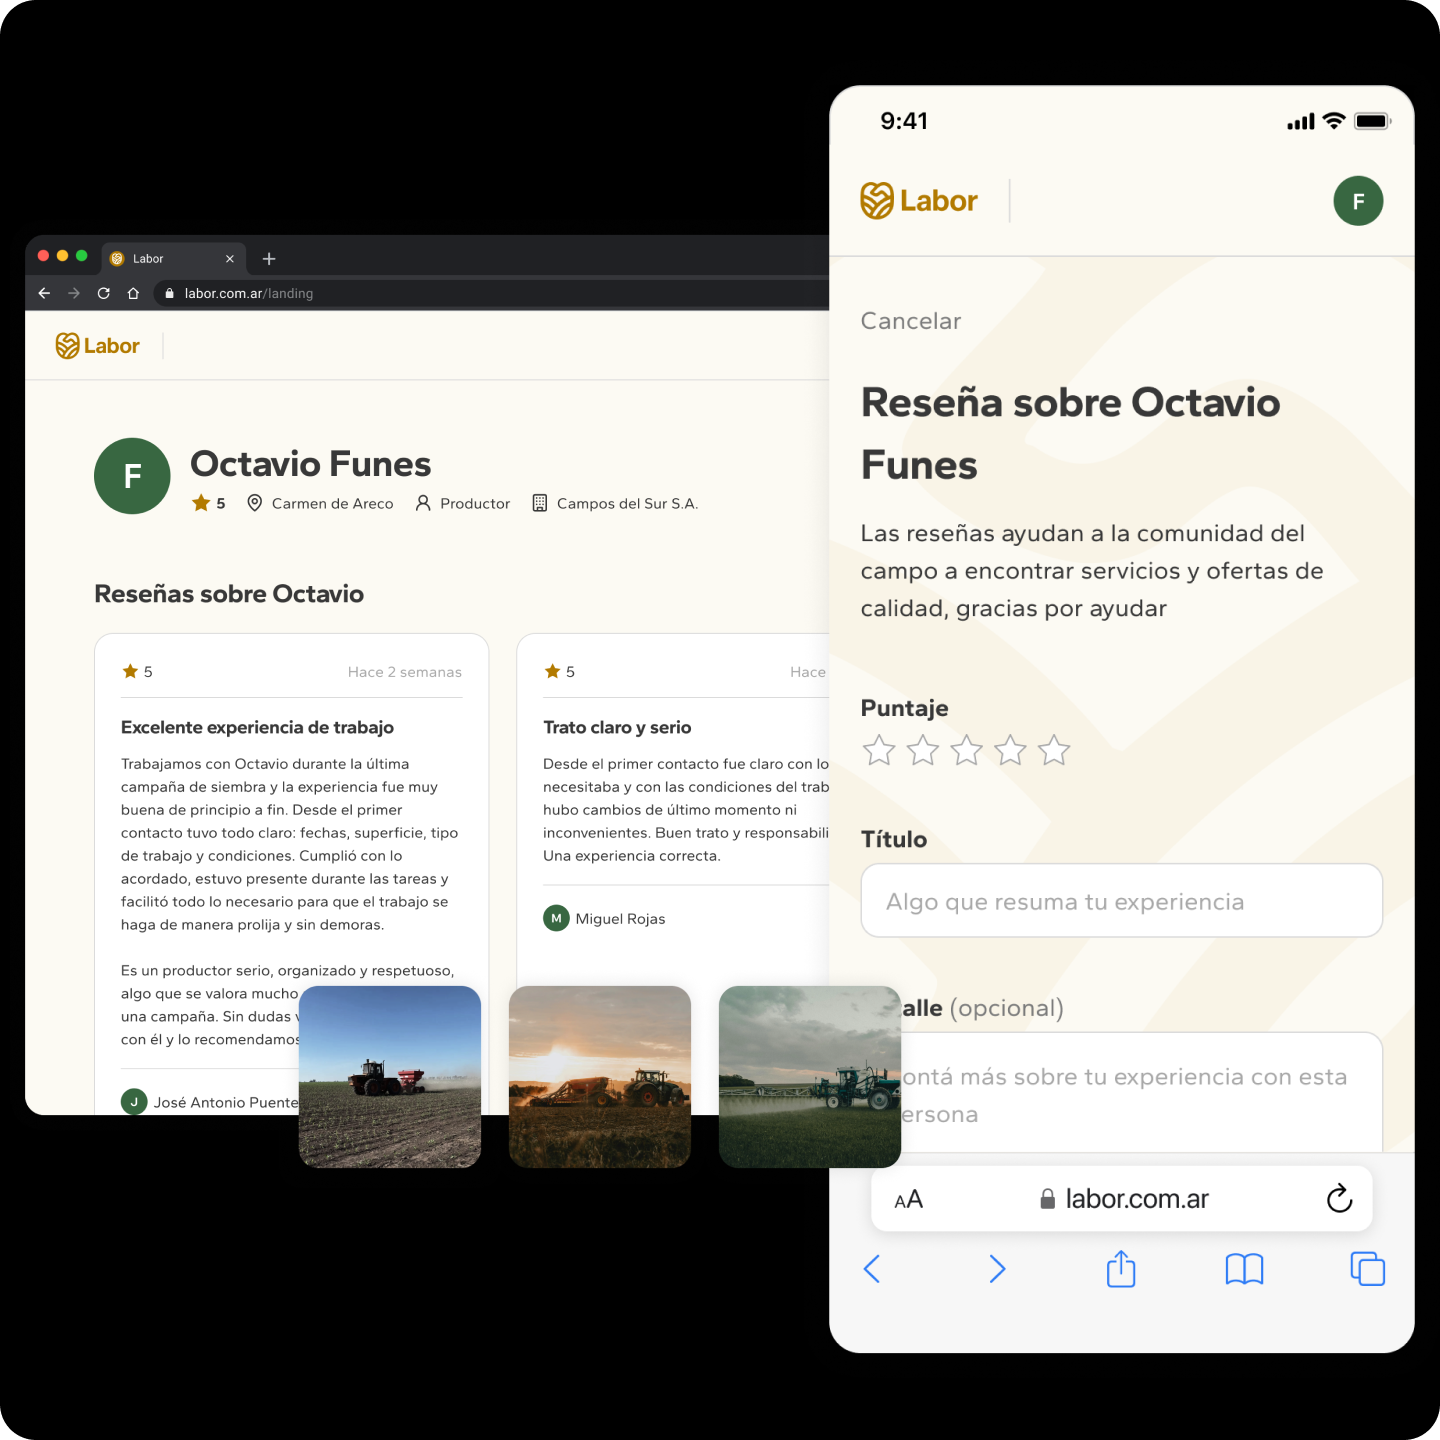
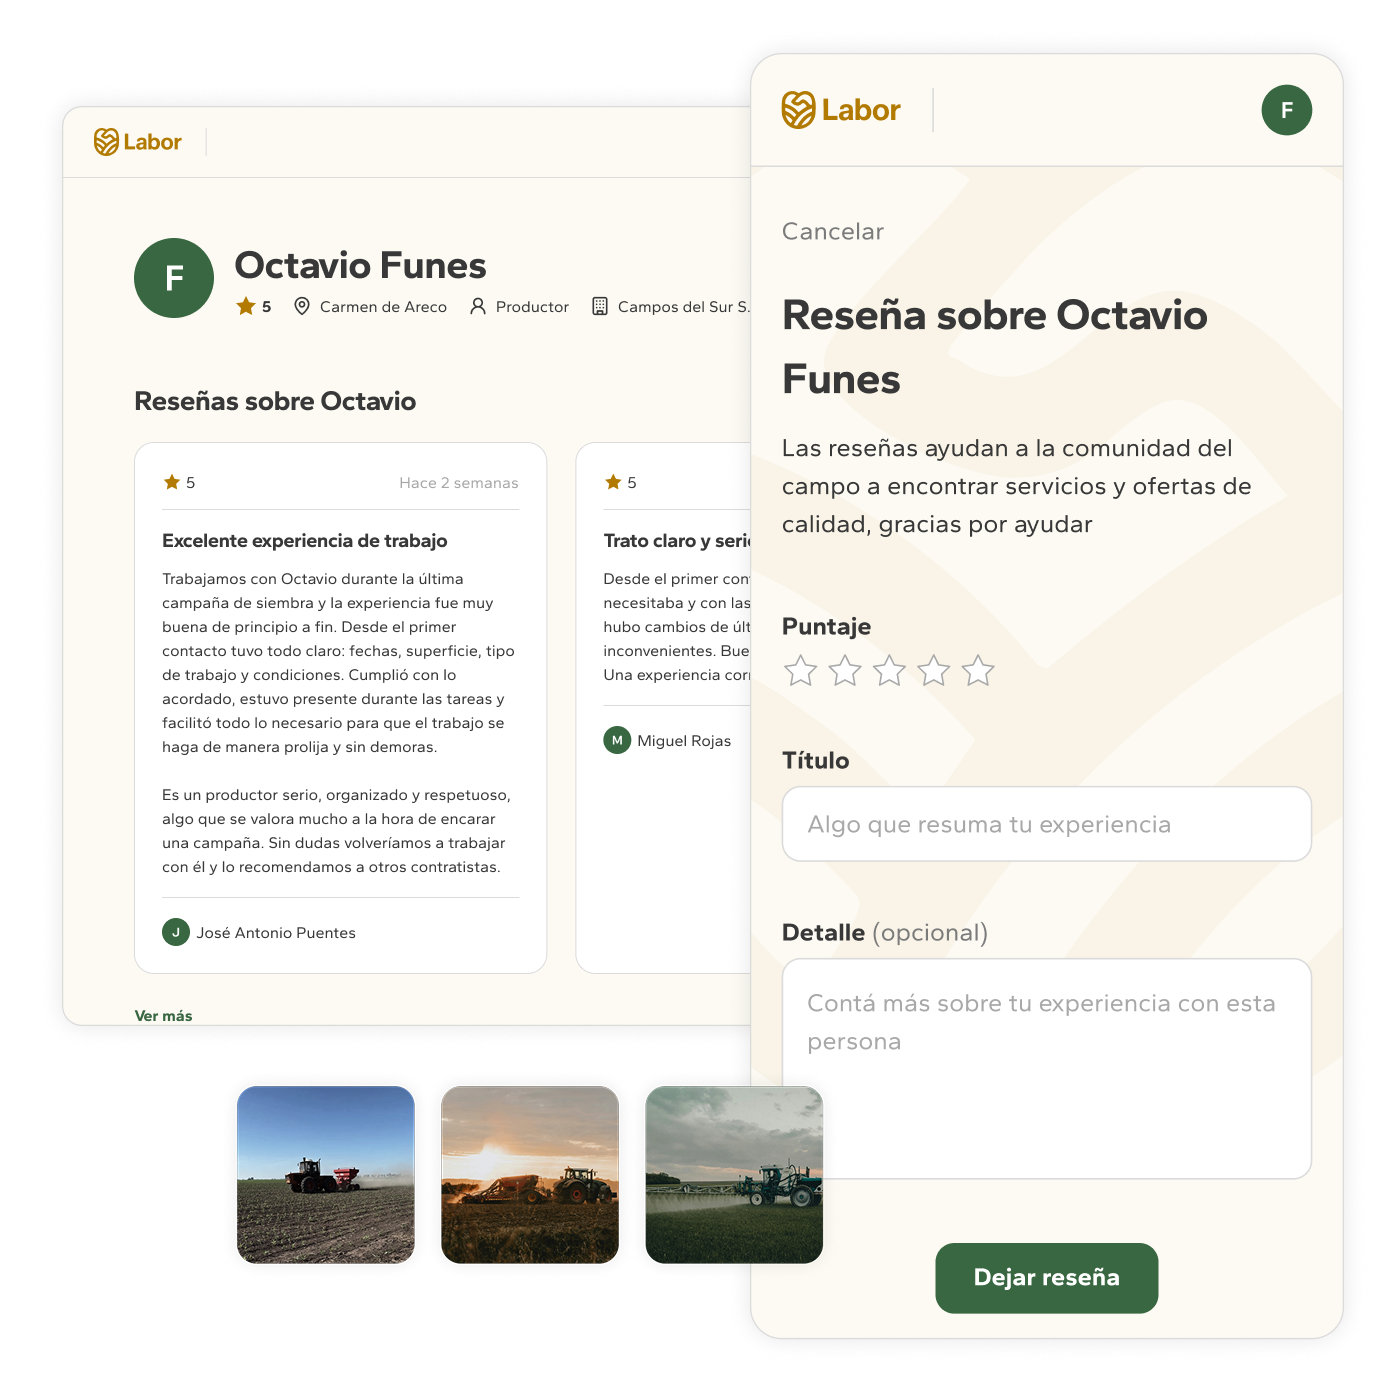
Improve Image Percepetion by updating CaseOverviewSection and CaseShowcaseSection
- Increased maximum width of CaseOverviewSection and CaseShowcaseSection to 1200px for better content presentation.
- Adjusted width settings for media items in CaseShowcaseSection to enhance responsiveness across different screen sizes.

diff --git a/src/components/sections/case/CaseShowcaseSection.tsx b/src/components/sections/case/CaseShowcaseSection.tsx
@@ -22,7 +22,7 @@ function ShowcaseItem({
   const mediaBlock = item.video ? (
     <div
       className={cn(
-        "w-full lg:w-[480px] shrink-0 aspect-square rounded-[12px] overflow-hidden",
+        "w-full md:w-[380px] lg:w-[520px] xl:w-[640px] shrink-0 aspect-square rounded-[12px] overflow-hidden",
         showRing && "ring-1 ring-neutral-400 shadow-md"
       )}
     >
@@ -34,7 +34,7 @@ function ShowcaseItem({
   ) : item.image ? (
     <div
       className={cn(
-        "relative w-full lg:w-[480px] shrink-0 aspect-square rounded-[12px] overflow-hidden",
+        "relative w-full md:w-[380px] lg:w-[520px] xl:w-[640px] shrink-0 aspect-square rounded-[12px] overflow-hidden",
         showRing && "ring-1 ring-neutral-400 shadow-md"
       )}
     >
@@ -52,6 +52,9 @@ function ShowcaseItem({
   const textBlock = (
     <div className="flex flex-col gap-[20px] lg:gap-[24px] flex-1">
       <h3 className="md:title4 title5 text-neutral-800">{item.title}</h3>
+      {item.description && (
+        <p className="md:body1 body2 text-neutral-600">{item.description}</p>
+      )}
       <ul className="flex flex-col gap-[8px]">
         {item.bullets.map((bullet, i) => (
           <li key={i} className="flex items-start gap-[12px] md:body1 body2 text-neutral-600">
@@ -78,7 +81,7 @@ function ShowcaseItem({
 export function CaseShowcaseSection({ items, heading }: CaseShowcaseSectionProps) {
   return (
     <section className="flex justify-center w-full">
-      <div className="flex flex-col gap-[40px] md:gap-[60px] lg:gap-[80px] max-w-[960px] w-full">
+      <div className="flex flex-col gap-[40px] max-w-[1200px] w-full">
         {heading && (
           <h2 className="title3 md:title1 text-neutral-800 text-left md:text-center">{heading}</h2>
         )}
@@ -86,7 +89,7 @@ export function CaseShowcaseSection({ items, heading }: CaseShowcaseSectionProps
           <div key={`${item.title}-${i}`} className="flex flex-col">
             <ShowcaseItem item={item} index={i} />
             {i < items.length - 1 ? (
-              <div className="my-[52px] lg:my-[60px]">
+              <div className="my-[52px] lg:my-[60px] xl:my-[80px]">
                 <Separator className="bg-neutral-400" />
               </div>
             ) : null}

diff --git a/src/content/cases/labor.ts b/src/content/cases/labor.ts
@@ -151,7 +151,7 @@ const laborCaseStudyEn: LaborCaseStudy = {
       image: "",
       imageAlt: "Unified publishing flow",
       video: "/images/projects/laborapp/LaborPublishing.mp4",
-      imagePosition: "right",
+      imagePosition: "left",
     },
     {
       title: "Location & service-driven discovery",
@@ -165,7 +165,7 @@ const laborCaseStudyEn: LaborCaseStudy = {
       image: "",
       imageAlt: "Location and service-driven discovery",
       video: "/images/projects/laborapp/LaborDiscovery.mp4",
-      imagePosition: "left",
+      imagePosition: "right",
     },
     {
       title: "Lightweight trust loop",
@@ -178,7 +178,8 @@ const laborCaseStudyEn: LaborCaseStudy = {
       ],
       image: "/images/projects/laborapp/LaborTrustLoop.png",
       imageAlt: "Lightweight trust loop",
-      imagePosition: "right",
+      imagePosition: "left",
+      showRing: false,
     },
   ],
   overview: {
@@ -381,6 +382,7 @@ const laborCaseStudyEs: LaborCaseStudy = {
       image: "/images/projects/laborapp/LaborTrustLoop.png",
       imageAlt: "Sistema de confianza simple",
       imagePosition: "right",
+      showRing: false,
     },
   ],
   overview: {

diff --git a/src/content/cases/viramos.ts b/src/content/cases/viramos.ts
@@ -173,6 +173,7 @@ const viramosCaseStudyEn: ViramosCaseStudy = {
       image: "/images/projects/viramos/ViramosJudges.png",
       imageAlt: "Protest and hearing flow for judges",
       imagePosition: "left",
+      showRing: false,
     },
     {
       title: "Mobile-first field experience (Sailors)",
@@ -403,6 +404,7 @@ const viramosCaseStudyEs: ViramosCaseStudy = {
       image: "/images/projects/viramos/ViramosJudges.png",
       imageAlt: "Flujo de protesta y audiencia para jueces",
       imagePosition: "left",
+      showRing: false,
     },
     {
       title: "Experiencia de campo mobile-first (Navegantes)",

diff --git a/src/components/sections/case/CaseOverviewSection.tsx b/src/components/sections/case/CaseOverviewSection.tsx
@@ -20,7 +20,7 @@ export function CaseOverviewSection({
 }: CaseOverviewSectionProps) {
   return (
     <section className="flex justify-center w-full">
-      <div className="flex flex-col gap-[40px] lg:gap-[52px] rounded-[12px] overflow-hidden max-w-[960px] w-full">
+      <div className="flex flex-col gap-[40px] lg:gap-[52px] rounded-[12px] overflow-hidden max-w-[1200px] w-full">
         {video ? (
           <div className="w-full aspect-[16/9] rounded-[12px] overflow-hidden">
             <AutoplayVideo
